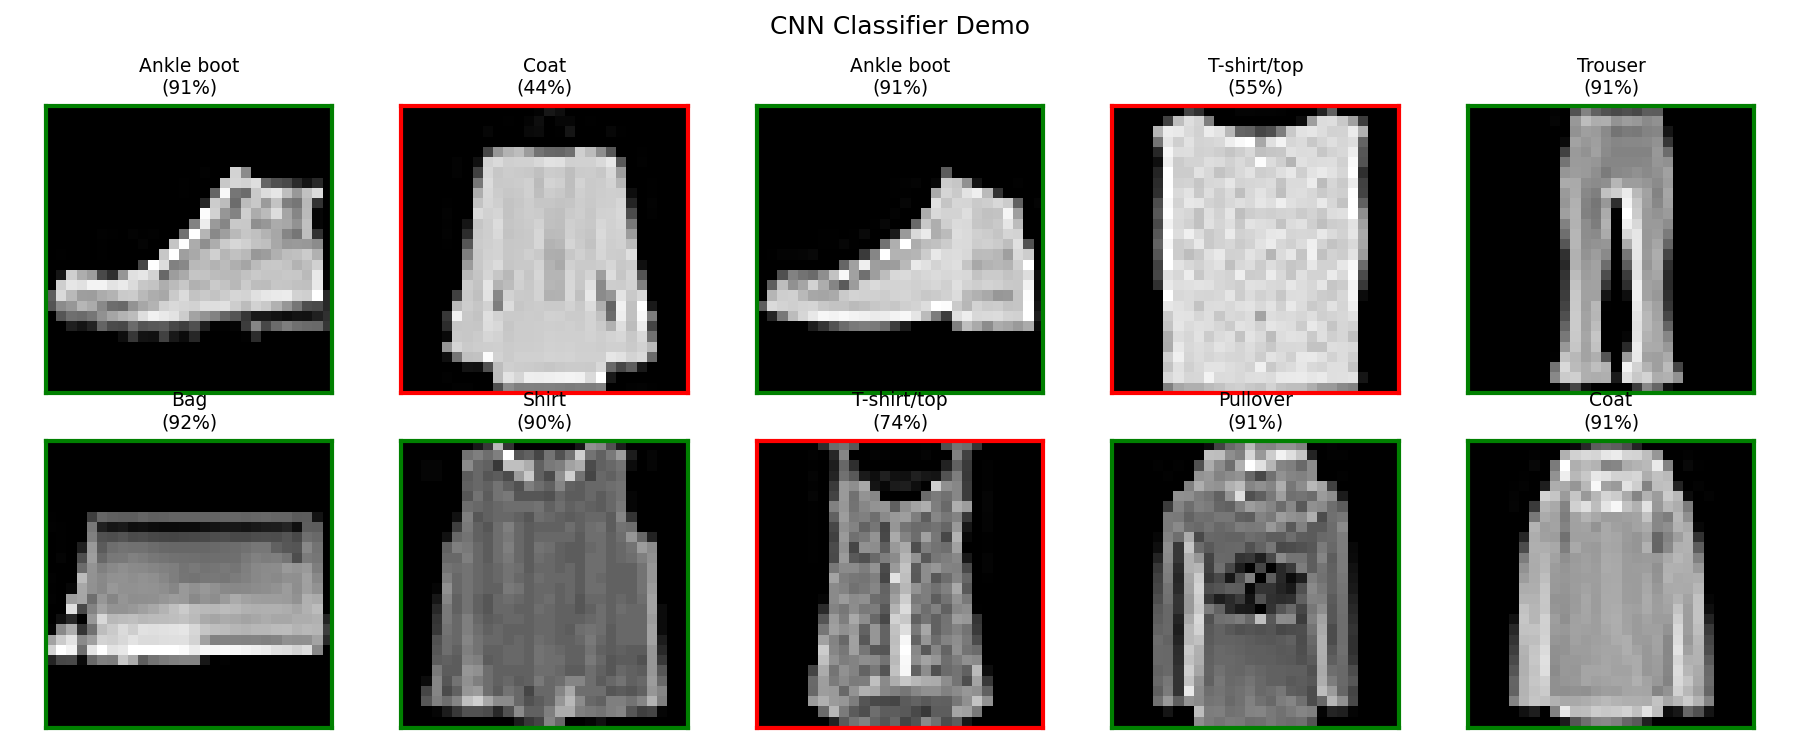
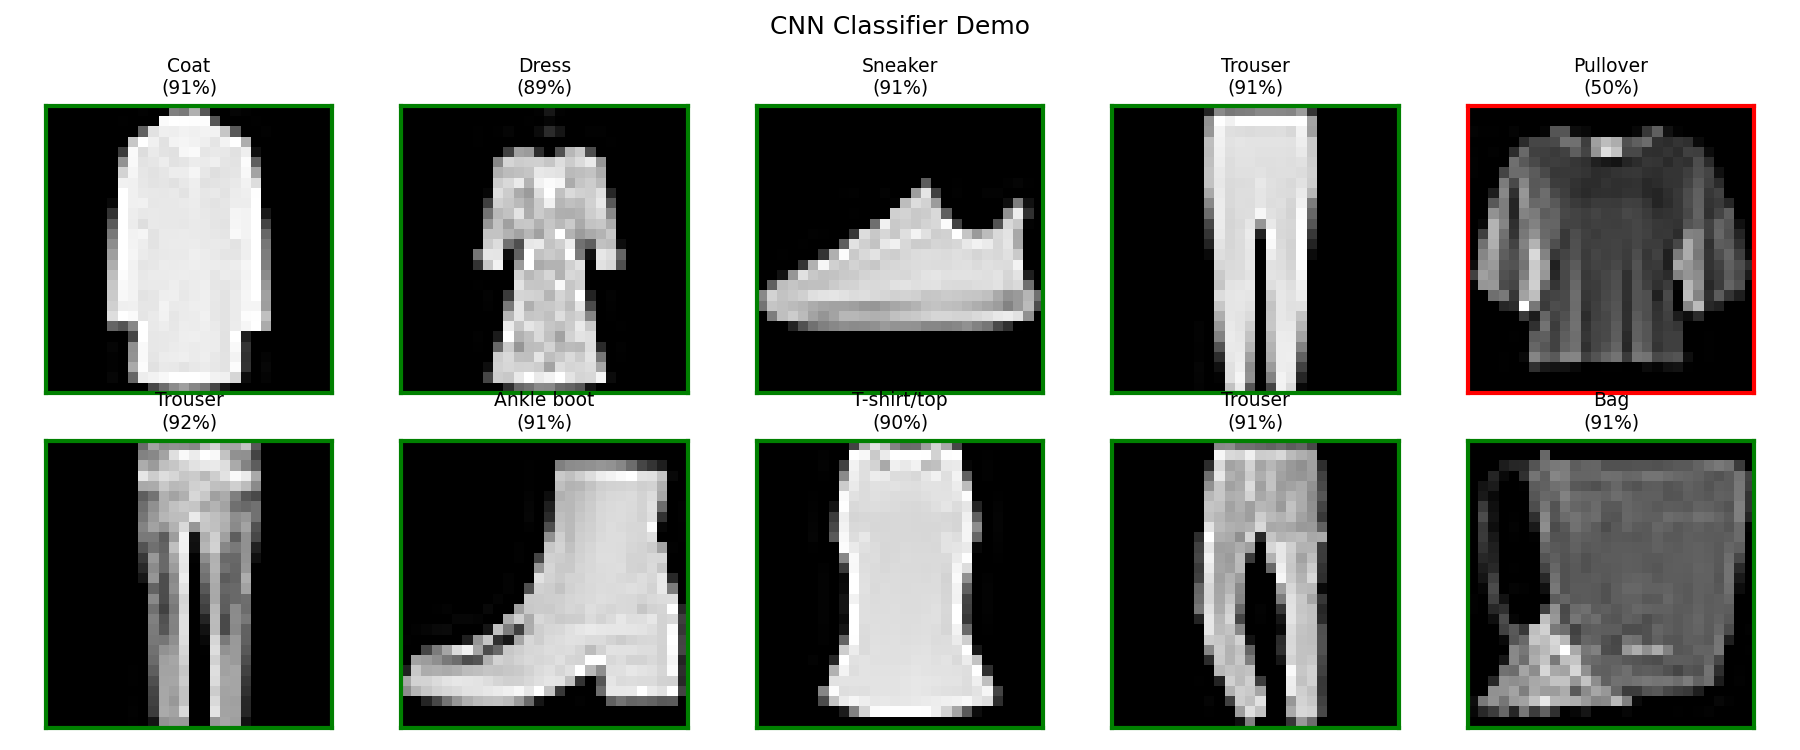
add latest results

diff --git a/src/evaluate_vae.py b/src/evaluate_vae.py
@@ -2,7 +2,6 @@
 """Evaluate Fashion-MNIST VAE generator."""
 
 import json
-from datetime import datetime
 
 import numpy as np
 import torch
@@ -155,13 +154,11 @@ def main():
     print(f"\nGrade: {grade} (score: {score:.3f})")
 
     # Save visualizations
-    timestamp = datetime.now().strftime("%Y%m%d_%H%M%S")
-    save_reconstruction_samples(model, test_loader, device, f"results/vae_recon_{timestamp}.png")
-    save_generation_samples(model, device, f"results/vae_gen_{timestamp}.png")
+    save_reconstruction_samples(model, test_loader, device, "results/vae_recon.png")
+    save_generation_samples(model, device, "results/vae_gen.png")
 
     # Save results
     results = {
-        "timestamp": timestamp,
         "parameters": params,
         "mse": mse,
         "correlation": corr,
@@ -170,10 +167,10 @@ def main():
         "score": score,
         "grade": grade,
     }
-    with open(f"results/vae_eval_{timestamp}.json", "w") as f:
+    with open("results/vae_eval.json", "w") as f:
         json.dump(results, f, indent=2)
 
-    print(f"\nResults saved to results/")
+    print("\nResults saved to results/")
 
 
 if __name__ == "__main__":
